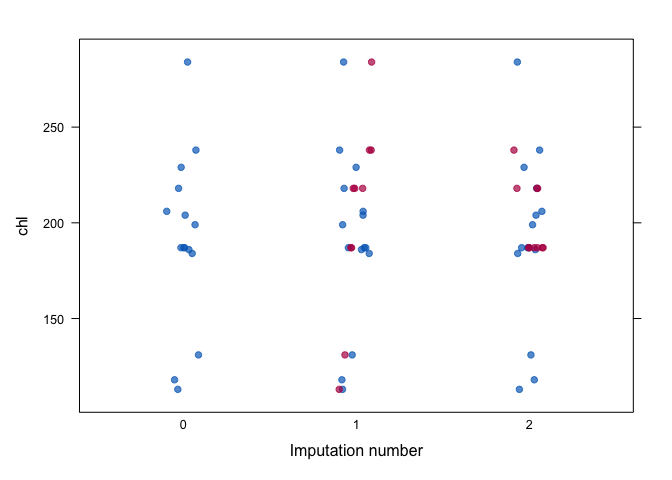
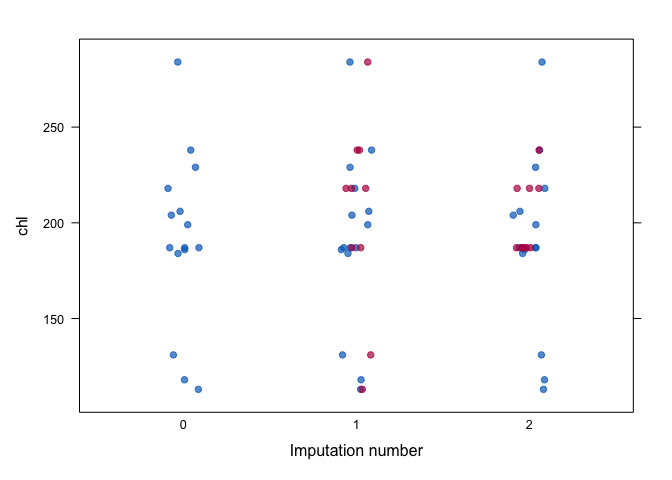
Update to mice 3.14.11

diff --git a/README.md b/README.md
@@ -4,7 +4,7 @@
 
 [![CRAN_Status_Badge](https://www.r-pkg.org/badges/version/mice)](https://cran.r-project.org/package=mice)
 [![](https://cranlogs.r-pkg.org/badges/mice)](https://cran.r-project.org/package=mice)
-[![](https://img.shields.io/badge/github%20version-3.14.10-orange.svg)](https://amices.github.io/mice/)
+[![](https://img.shields.io/badge/github%20version-3.14.11-orange.svg)](https://amices.github.io/mice/)
 
 ## [Multivariate Imputation by Chained Equations](https://amices.github.io/mice/)
 

diff --git a/NEWS.md b/NEWS.md
@@ -1,3 +1,7 @@
+# mice 3.14.11
+
+* Reverts the internal seed behaviour back to `mice 3.13.10` (#515). #432 introduced new local seed in response to #426. However, various issues arose with this facility (#459, #492, #502, #505). This version restores the old behaviour using global `.Random.seed`. Contributed @gerkovink 
+
 # mice 3.14.10
 
 * Adds a `custom.t` argument to `pool()` that allows the advanced user to specify a custom rule for calculating the total variance $T$
